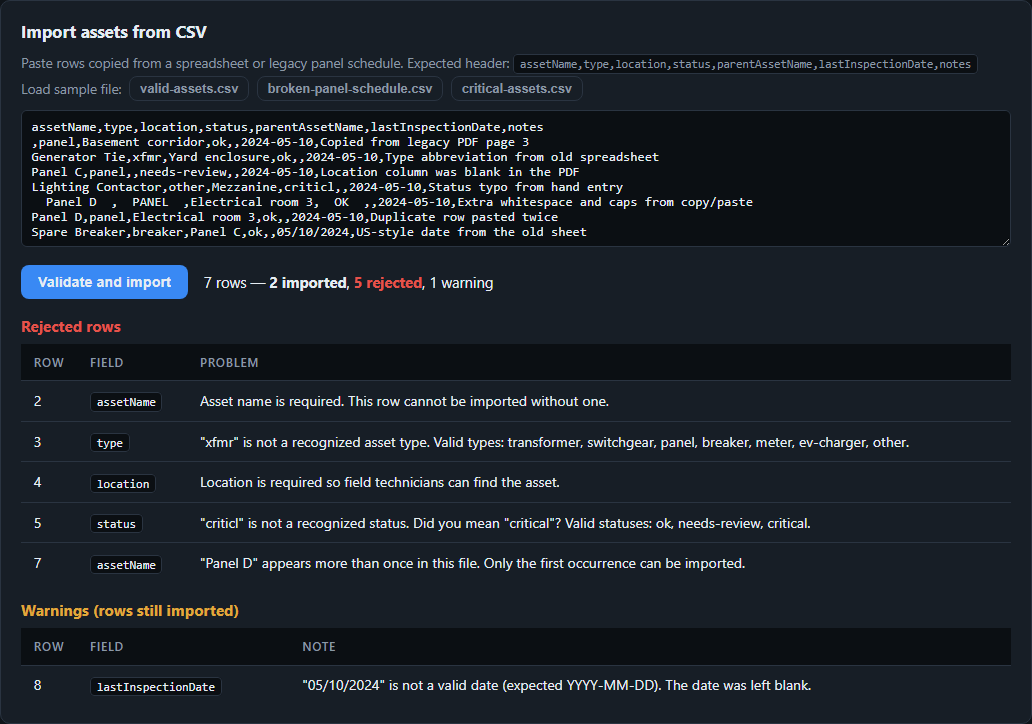
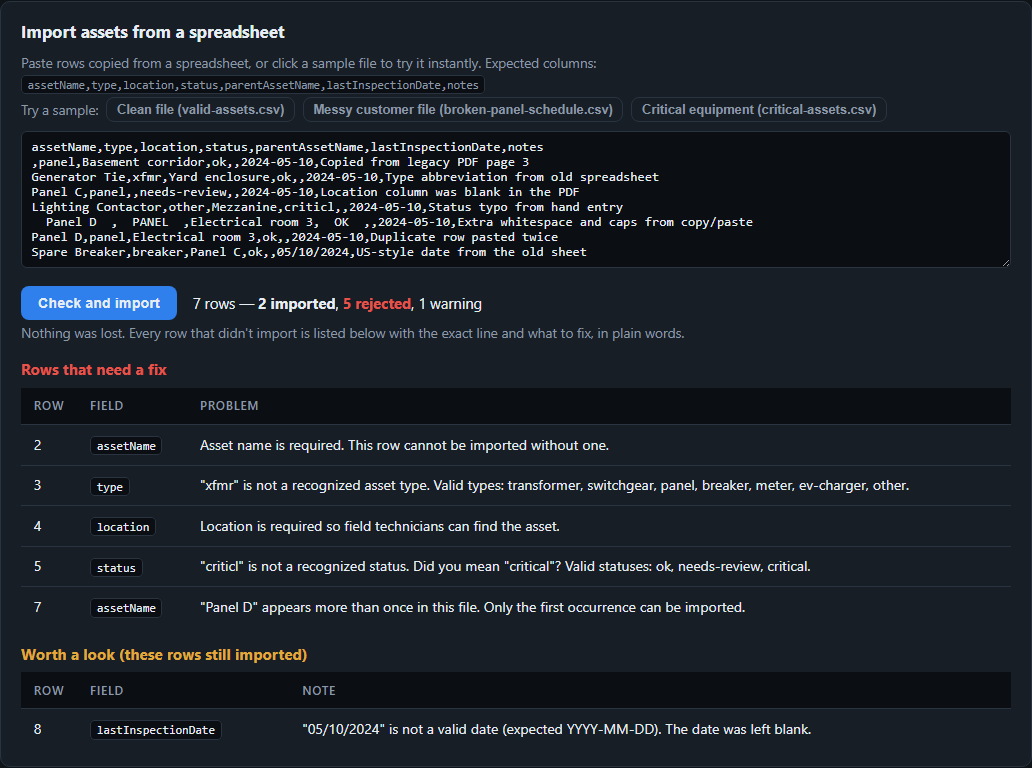
Simplify the UI for non-technical users
Guided demo mode: the home-page button preloads the messy sample, scrolls to the import panel, and explains the result in plain words. Plainer labels throughout, collapsible add-asset form, friendlier summaries, and a regression test for the guided flow.

diff --git a/src/components/CsvImportPanel.tsx b/src/components/CsvImportPanel.tsx
@@ -1,4 +1,4 @@
-import { useState } from "react";
+import { useEffect, useRef, useState } from "react";
 import { useStore } from "../app/store";
 import { parseAssetCsv } from "../domain/csv";
 import type { ImportResult } from "../domain/types";
@@ -7,20 +7,39 @@ import brokenFixture from "../test-fixtures/broken-panel-schedule.csv?raw";
 import criticalFixture from "../test-fixtures/critical-assets.csv?raw";
 
 const FIXTURES = [
-  { label: "valid-assets.csv", text: validFixture },
-  { label: "broken-panel-schedule.csv", text: brokenFixture },
-  { label: "critical-assets.csv", text: criticalFixture },
+  { label: "Clean file", file: "valid-assets.csv", text: validFixture },
+  { label: "Messy customer file", file: "broken-panel-schedule.csv", text: brokenFixture },
+  { label: "Critical equipment", file: "critical-assets.csv", text: criticalFixture },
 ];
 
-export function CsvImportPanel({ facilityId }: { facilityId: string }) {
+export function CsvImportPanel({
+  facilityId,
+  demoMode = false,
+}: {
+  facilityId: string;
+  demoMode?: boolean;
+}) {
   const { assets, applyImport } = useStore();
   const [csvText, setCsvText] = useState("");
   const [sourceLabel, setSourceLabel] = useState("pasted CSV");
   const [result, setResult] = useState<ImportResult | null>(null);
+  // 0 = not in demo, 1 = sample loaded and waiting for the click, 2 = imported
+  const [demoStep, setDemoStep] = useState(0);
+  const panelRef = useRef<HTMLDivElement | null>(null);
 
-  function loadFixture(label: string, text: string) {
+  useEffect(() => {
+    if (demoMode && demoStep === 0) {
+      setCsvText(brokenFixture);
+      setSourceLabel("broken-panel-schedule.csv");
+      setResult(null);
+      setDemoStep(1);
+      setTimeout(() => panelRef.current?.scrollIntoView({ behavior: "smooth", block: "start" }), 150);
+    }
+  }, [demoMode, demoStep]);
+
+  function loadFixture(file: string, text: string) {
     setCsvText(text);
-    setSourceLabel(label);
+    setSourceLabel(file);
     setResult(null);
   }
 
@@ -33,28 +52,39 @@ export function CsvImportPanel({ facilityId }: { facilityId: string }) {
     if (parsed.acceptedRows > 0) {
       applyImport(facilityId, parsed, sourceLabel);
     }
+    if (demoStep === 1) setDemoStep(2);
   }
 
   return (
-    <div className="card" data-testid="csv-import">
-      <h3>Import assets from CSV</h3>
+    <div className="card" data-testid="csv-import" ref={panelRef}>
+      <h3>Import assets from a spreadsheet</h3>
       <p className="muted small">
-        Paste rows copied from a spreadsheet or legacy panel schedule. Expected header:{" "}
+        Paste rows copied from a spreadsheet, or click a sample file to try it instantly. Expected
+        columns:{" "}
         <code>assetName,type,location,status,parentAssetName,lastInspectionDate,notes</code>
       </p>
       <div className="fixture-buttons">
-        <span className="muted small">Load sample file:</span>
+        <span className="muted small">Try a sample:</span>
         {FIXTURES.map((f) => (
           <button
-            key={f.label}
+            key={f.file}
             type="button"
             className="btn btn-ghost btn-small"
-            onClick={() => loadFixture(f.label, f.text)}
+            onClick={() => loadFixture(f.file, f.text)}
           >
-            {f.label}
+            {f.label} <span className="muted">({f.file})</span>
           </button>
         ))}
       </div>
+
+      {demoStep === 1 && (
+        <p className="demo-hint" role="status">
+          <strong>Step 1 is done for you.</strong> Below is a messy spreadsheet, exactly as a customer
+          might send it. Now for step 2: click the blue button. This is sample data, so nothing can
+          break.
+        </p>
+      )}
+
       <textarea
         aria-label="CSV input"
         value={csvText}
@@ -67,8 +97,13 @@ export function CsvImportPanel({ facilityId }: { facilityId: string }) {
         placeholder={"assetName,type,location,status,parentAssetName,lastInspectionDate,notes\nPanel E,panel,Electrical room 2,ok,,2025-10-01,"}
       />
       <div className="import-actions">
-        <button type="button" className="btn btn-primary" onClick={handleImport} disabled={csvText.trim() === ""}>
-          Validate and import
+        <button
+          type="button"
+          className={`btn btn-primary${demoStep === 1 ? " pulse" : ""}`}
+          onClick={handleImport}
+          disabled={csvText.trim() === ""}
+        >
+          Check and import
         </button>
         {result && (
           <p className="import-summary" role="status" data-testid="import-summary">
@@ -79,9 +114,32 @@ export function CsvImportPanel({ facilityId }: { facilityId: string }) {
         )}
       </div>
 
+      {result && (
+        <p className="muted small">
+          {result.rejectedRows > 0
+            ? "Nothing was lost. Every row that didn't import is listed below with the exact line and what to fix, in plain words."
+            : result.acceptedRows > 0
+              ? "All rows imported successfully and now appear in the asset list above."
+              : "Nothing imported. The messages below explain why."}
+        </p>
+      )}
+
+      {demoStep === 2 && result && (
+        <div className="whats-happened" data-testid="demo-explainer">
+          <h4>What just happened?</h4>
+          <p>
+            The app read all {result.totalRows} lines of the messy file. {result.acceptedRows} were
+            good and were added to the asset list above. {result.rejectedRows} had problems, and the
+            red table below says exactly which line and what to fix. When you're done here, scroll
+            down: the <strong>Support diagnostics</strong> panel shows what our support team would
+            see, and the <strong>Generate report</strong> button builds a summary for the customer.
+          </p>
+        </div>
+      )}
+
       {result && result.errors.length > 0 && (
         <div className="issue-block" data-testid="import-errors">
-          <h4 className="error-text">Rejected rows</h4>
+          <h4 className="error-text">Rows that need a fix</h4>
           <table className="issue-table">
             <thead>
               <tr>
@@ -105,7 +163,7 @@ export function CsvImportPanel({ facilityId }: { facilityId: string }) {
 
       {result && result.warnings.length > 0 && (
         <div className="issue-block" data-testid="import-warnings">
-          <h4 className="warn-text">Warnings (rows still imported)</h4>
+          <h4 className="warn-text">Worth a look (these rows still imported)</h4>
           <table className="issue-table">
             <thead>
               <tr>

diff --git a/src/styles.css b/src/styles.css
@@ -444,6 +444,49 @@ tbody tr:last-child td {
   font-size: 0.8rem;
 }
 
+/* Demo mode */
+.demo-hint {
+  margin: 0.25rem 0 0.75rem;
+  padding: 0.7rem 1rem;
+  border: 1px solid color-mix(in srgb, var(--accent) 50%, transparent);
+  border-left: 3px solid var(--accent);
+  border-radius: 8px;
+  background: color-mix(in srgb, var(--accent) 10%, transparent);
+  font-size: 0.95rem;
+}
+
+.whats-happened {
+  margin-top: 1rem;
+  padding: 0.8rem 1.1rem;
+  border: 1px solid color-mix(in srgb, var(--ok) 40%, transparent);
+  border-left: 3px solid var(--ok);
+  border-radius: 8px;
+  background: color-mix(in srgb, var(--ok) 8%, transparent);
+}
+
+.whats-happened h4 {
+  margin: 0 0 0.4rem;
+}
+
+.whats-happened p {
+  margin: 0;
+  font-size: 0.92rem;
+}
+
+.pulse {
+  animation: pulse-glow 1.6s ease-in-out infinite;
+}
+
+@keyframes pulse-glow {
+  0%,
+  100% {
+    box-shadow: 0 0 0 0 color-mix(in srgb, var(--accent) 60%, transparent);
+  }
+  50% {
+    box-shadow: 0 0 0 9px color-mix(in srgb, var(--accent) 0%, transparent);
+  }
+}
+
 /* Import panel */
 .fixture-buttons {
   display: flex;

diff --git a/tests/e2e/import.spec.ts b/tests/e2e/import.spec.ts
@@ -1,4 +1,4 @@
-import { expect, test } from "@playwright/test";
+import { expect, test } from "@playwright/test";
 
 const HEADER = "assetName,type,location,status,parentAssetName,lastInspectionDate,notes";
 
@@ -9,7 +9,7 @@ test.beforeEach(async ({ page }) => {
 
 test("imports valid CSV rows and displays the imported assets", async ({ page }) => {
   await page.getByRole("button", { name: "valid-assets.csv" }).click();
-  await page.getByRole("button", { name: "Validate and import" }).click();
+  await page.getByRole("button", { name: "Check and import" }).click();
 
   await expect(page.getByTestId("import-summary")).toContainText("5 rows");
   await expect(page.getByTestId("import-summary")).toContainText("5 imported");
@@ -20,7 +20,7 @@ test("imports valid CSV rows and displays the imported assets", async ({ page })
 
 test("shows row-level diagnostics for a broken CSV import", async ({ page }) => {
   await page.getByRole("button", { name: "broken-panel-schedule.csv" }).click();
-  await page.getByRole("button", { name: "Validate and import" }).click();
+  await page.getByRole("button", { name: "Check and import" }).click();
 
   await expect(page.getByTestId("import-summary")).toContainText("7 rows");
   await expect(page.getByTestId("import-summary")).toContainText("2 imported");
@@ -47,7 +47,7 @@ test("normalizes whitespace and asset type casing during import", async ({ page 
   await page
     .getByLabel("CSV input")
     .fill(`${HEADER}\n  Panel Z  ,  PANEL  ,  Electrical room 4  ,  OK  ,,2025-06-01,`);
-  await page.getByRole("button", { name: "Validate and import" }).click();
+  await page.getByRole("button", { name: "Check and import" }).click();
 
   await expect(page.getByTestId("import-summary")).toContainText("1 imported");
   const row = page.getByRole("row", { name: /Panel Z/ });
@@ -58,7 +58,7 @@ test("normalizes whitespace and asset type casing during import", async ({ page 
 test("rejects duplicate asset names within the same facility", async ({ page }) => {
   // "Main Meter" is seeded in Granite Street Warehouse.
   await page.getByLabel("CSV input").fill(`${HEADER}\nMain Meter,meter,Loading dock wall,ok,,2025-06-01,`);
-  await page.getByRole("button", { name: "Validate and import" }).click();
+  await page.getByRole("button", { name: "Check and import" }).click();
 
   await expect(page.getByTestId("import-summary")).toContainText("0 imported");
   await expect(page.getByTestId("import-summary")).toContainText("1 rejected");
@@ -71,7 +71,7 @@ test("rejects duplicate asset names within the same facility", async ({ page }) 
 
 test("AI-assisted support draft requires human review before it can be copied", async ({ page }) => {
   await page.getByRole("button", { name: "broken-panel-schedule.csv" }).click();
-  await page.getByRole("button", { name: "Validate and import" }).click();
+  await page.getByRole("button", { name: "Check and import" }).click();
   await page.getByRole("button", { name: "Draft customer reply" }).click();
 
   const draft = page.getByTestId("support-draft");
@@ -85,9 +85,23 @@ test("AI-assisted support draft requires human review before it can be copied", 
   await expect(copyButton).toBeEnabled();
 });
 
+test("guided demo preloads the messy sample and explains the result in plain words", async ({ page }) => {
+  await page.goto("/");
+  await page.getByRole("link", { name: "Try the demo" }).click();
+
+  // Step 1 happened automatically: the messy sample is loaded and the hint points at the button.
+  await expect(page.getByLabel("CSV input")).toHaveValue(/Generator Tie,xfmr/);
+  await expect(page.getByText("Step 1 is done for you.")).toBeVisible();
+
+  await page.getByRole("button", { name: "Check and import" }).click();
+  await expect(page.getByTestId("import-summary")).toContainText("2 imported");
+  await expect(page.getByTestId("demo-explainer")).toContainText("What just happened?");
+  await expect(page.getByTestId("demo-explainer")).toContainText("added to the asset list above");
+});
+
 test("rejects a file with a missing required header column", async ({ page }) => {
   await page.getByLabel("CSV input").fill("assetName,location\nPanel Q,Room 1");
-  await page.getByRole("button", { name: "Validate and import" }).click();
+  await page.getByRole("button", { name: "Check and import" }).click();
 
   await expect(page.getByTestId("import-summary")).toContainText("0 imported");
   await expect(page.getByTestId("import-errors")).toContainText("Missing required column(s): type, status");

diff --git a/src/pages/FacilityDetailPage.tsx b/src/pages/FacilityDetailPage.tsx
@@ -1,4 +1,5 @@
-import { Link, useParams } from "react-router-dom";
+import { useState } from "react";
+import { Link, useParams, useSearchParams } from "react-router-dom";
 import { useStore } from "../app/store";
 import { StatusBadge } from "../components/StatusBadge";
 import { AssetTable } from "../components/AssetTable";
@@ -9,8 +10,11 @@ import { ReportPreview } from "../components/ReportPreview";
 
 export function FacilityDetailPage() {
   const { facilityId } = useParams();
+  const [searchParams] = useSearchParams();
+  const demoMode = searchParams.get("demo") === "1";
   const { facilities, assets } = useStore();
   const facility = facilities.find((f) => f.id === facilityId);
+  const [showAddAsset, setShowAddAsset] = useState(false);
 
   if (!facility) {
     return (
@@ -49,10 +53,16 @@ export function FacilityDetailPage() {
 
       <h2>Assets</h2>
       <AssetTable assets={facilityAssets} />
-      <AddAssetForm facilityId={facility.id} />
+      {showAddAsset ? (
+        <AddAssetForm facilityId={facility.id} />
+      ) : (
+        <button type="button" className="btn btn-secondary" onClick={() => setShowAddAsset(true)}>
+          Add an asset manually
+        </button>
+      )}
 
       <h2>Import</h2>
-      <CsvImportPanel facilityId={facility.id} />
+      <CsvImportPanel facilityId={facility.id} demoMode={demoMode} />
       <DiagnosticsPanel facilityId={facility.id} />
 
       <h2>Report</h2>

diff --git a/src/pages/FacilityListPage.tsx b/src/pages/FacilityListPage.tsx
@@ -48,12 +48,12 @@ export function FacilityListPage() {
 
       <aside className="tour-banner" data-testid="demo-tour">
         <div>
-          <strong>Reviewing this demo?</strong> Open a facility, load the{" "}
-          <code>broken-panel-schedule.csv</code> sample, and click <em>Validate and import</em> — you'll
-          see row-level diagnostics, the support panel, and the AI-reply review gate in under two minutes.
+          <strong>First time here?</strong> One click loads a messy sample spreadsheet so you can watch
+          the app sort it out and explain every problem in plain words. It takes about a minute, and
+          nothing can break.
         </div>
-        <Link className="btn btn-secondary" to="/facility/fac-granite">
-          Start the 2-minute tour
+        <Link className="btn btn-primary" to="/facility/fac-granite?demo=1">
+          Try the demo
         </Link>
       </aside>
 

diff --git a/tests/e2e/report.spec.ts b/tests/e2e/report.spec.ts
@@ -1,4 +1,4 @@
-import { expect, test } from "@playwright/test";
+import { expect, test } from "@playwright/test";
 
 test("generates a report that highlights critical assets", async ({ page }) => {
   await page.goto("/#/facility/fac-northside");
@@ -15,7 +15,7 @@ test("generates a report that highlights critical assets", async ({ page }) => {
 test("report reflects newly imported assets", async ({ page }) => {
   await page.goto("/#/facility/fac-granite");
   await page.getByRole("button", { name: "critical-assets.csv" }).click();
-  await page.getByRole("button", { name: "Validate and import" }).click();
+  await page.getByRole("button", { name: "Check and import" }).click();
   await expect(page.getByTestId("import-summary")).toContainText("3 imported");
 
   await page.getByRole("button", { name: "Generate report" }).click();

diff --git a/src/components/DiagnosticsPanel.tsx b/src/components/DiagnosticsPanel.tsx
@@ -27,6 +27,7 @@ export function DiagnosticsPanel({ facilityId }: { facilityId: string }) {
   return (
     <div className="card" data-testid="diagnostics">
       <h3>Support diagnostics</h3>
+      <p className="muted small">This is what our support team sees when helping with an import.</p>
       <dl className="diag-grid">
         <div>
           <dt>Source</dt>

diff --git a/tests/e2e/facilities.spec.ts b/tests/e2e/facilities.spec.ts
@@ -40,6 +40,7 @@ test("adds an electrical asset to a facility", async ({ page }) => {
     .click();
   await expect(page.getByRole("heading", { name: "Northside Medical Office" })).toBeVisible();
 
+  await page.getByRole("button", { name: "Add an asset manually" }).click();
   const form = page.getByRole("form", { name: "Add asset" });
   await form.getByLabel("Asset name *").fill("Panel E");
   await form.getByLabel("Type *").selectOption("panel");